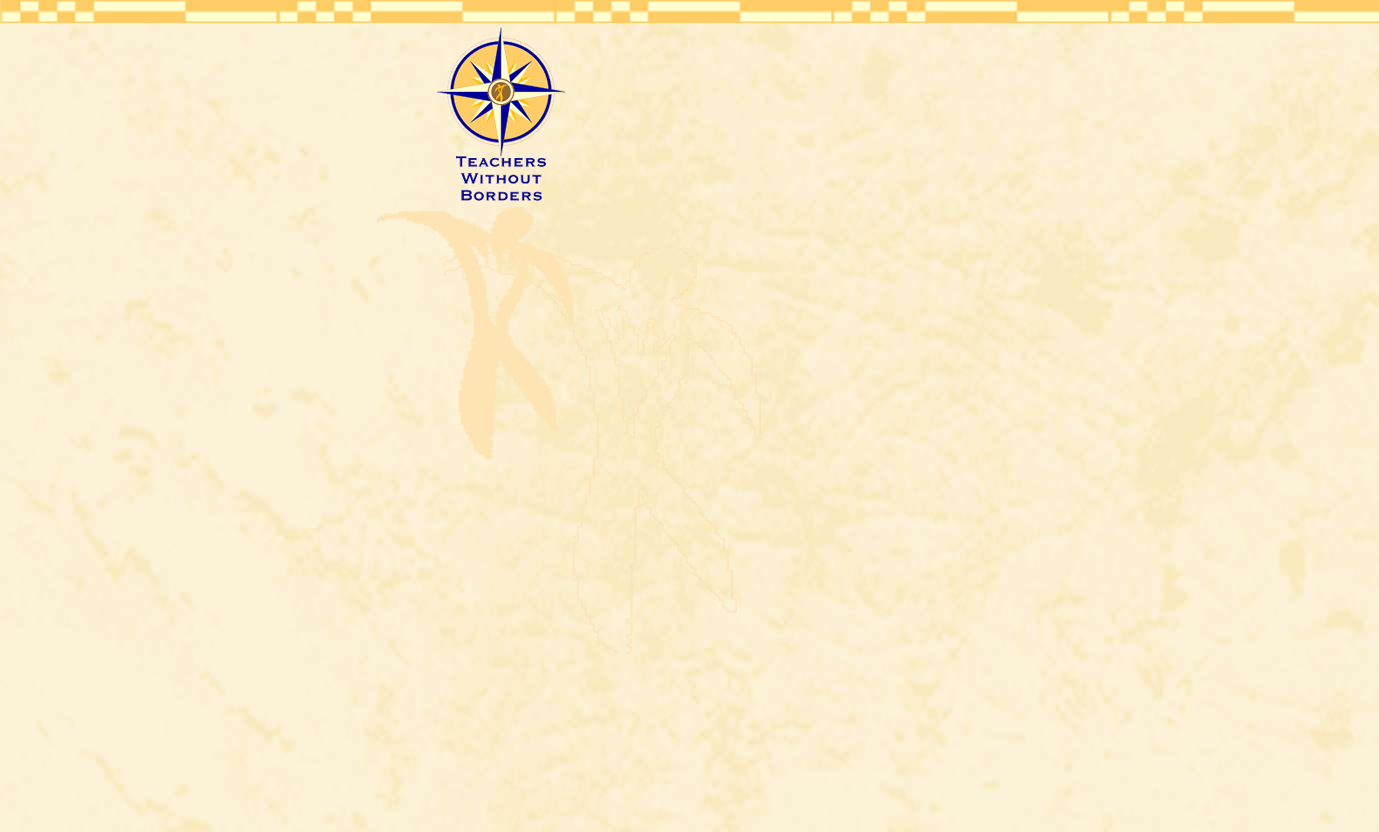
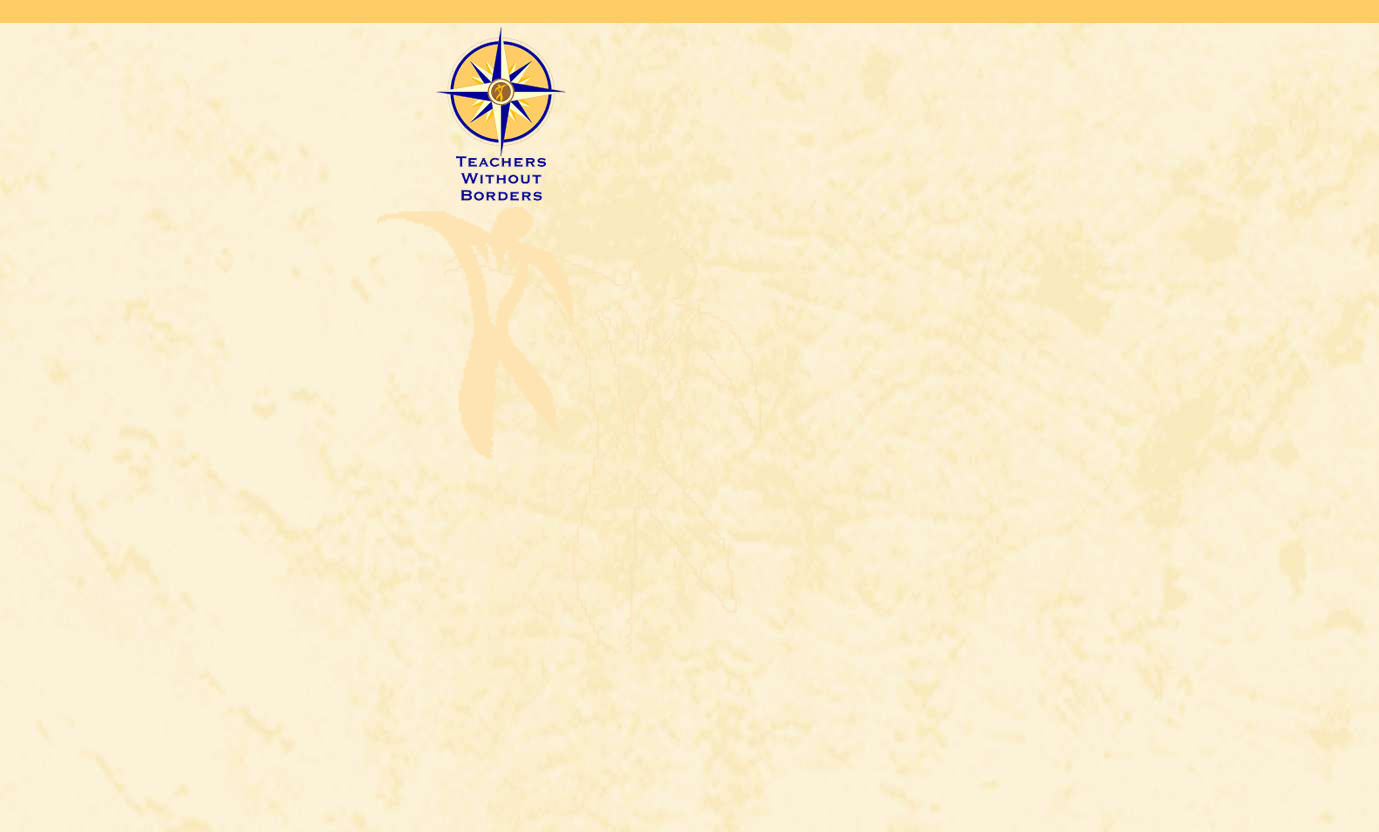
fixed ics problem and changed header background for home page

Changed region(s): [[0.0, 0.0, 1.0, 0.0312]]

diff --git a/app/controllers/groups/events_controller.rb b/app/controllers/groups/events_controller.rb
@@ -23,7 +23,7 @@ class Groups::EventsController < ApplicationController
         render
       end
       format.ics do
-        # require 'icalendar'
+        require 'icalendar'
         @calendar = Icalendar::Calendar.new
         @events.each do |event|
           ics_event = Icalendar::Event.new
